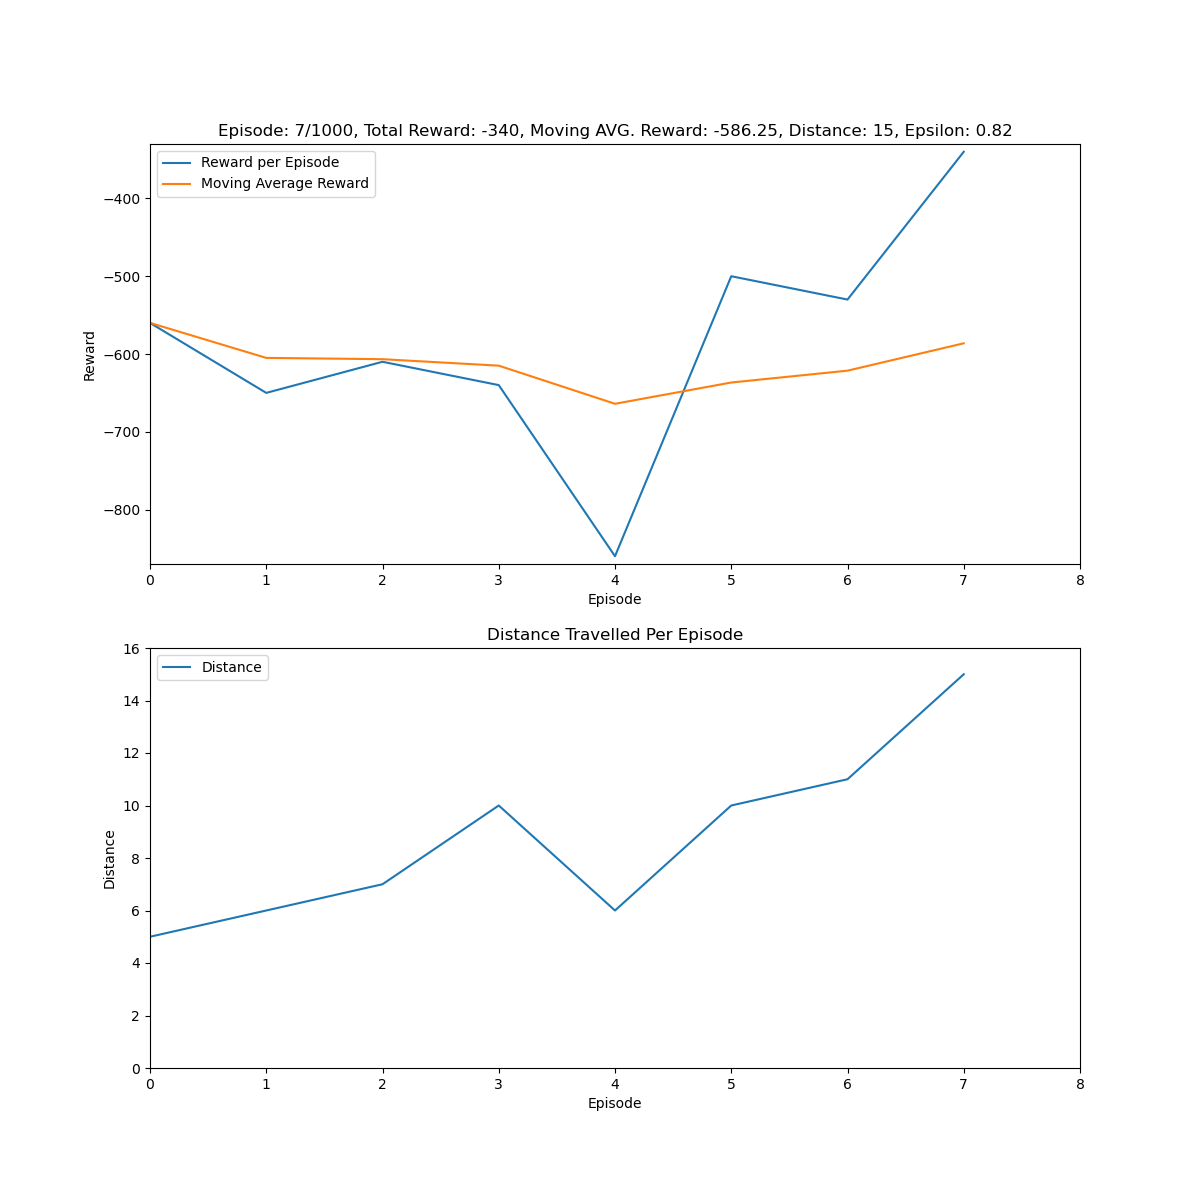
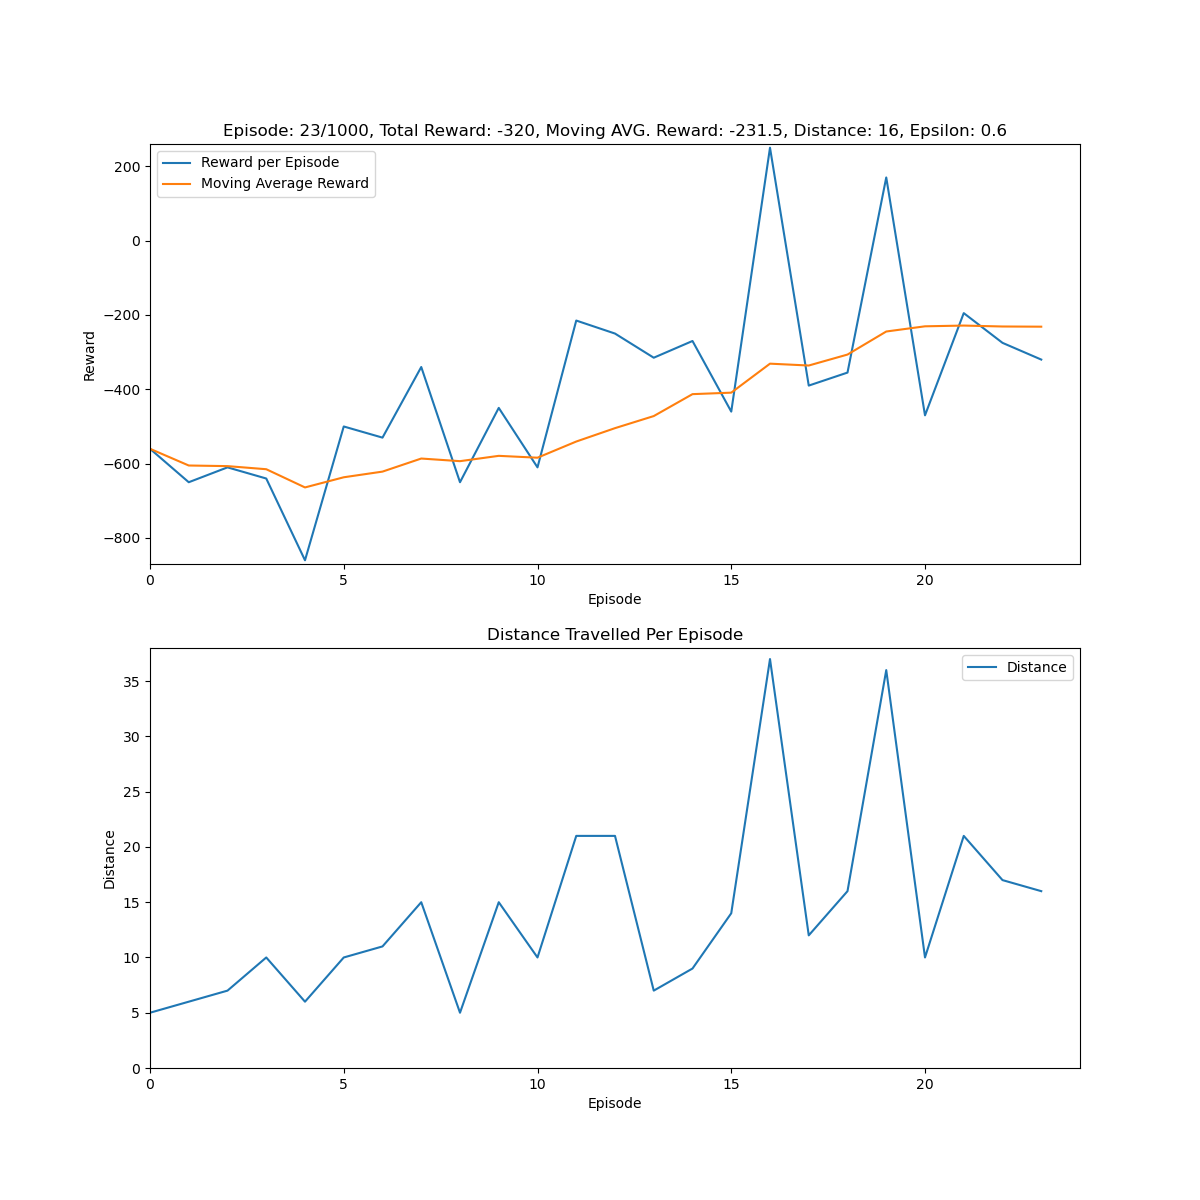
added figures module

diff --git a/freeway/dqn/modules/logger.py b/freeway/dqn/modules/logger.py
@@ -2,23 +2,31 @@ import os
 import json
 
 class EpisodeLogger:
-    def __init__(self, log_file_path="logs/episode_logs.json"):
-        self.log_file_path = log_file_path
-        os.makedirs(os.path.dirname(log_file_path), exist_ok=True)
-        self.logs = []
+    def __init__(self, log_files_dir="logs/"):
+        self.log_file_path = log_files_dir
+        os.makedirs(os.path.dirname(log_files_dir), exist_ok=True)
+        self.rewards = []
+        self.moving_averages = []
+        self.distances = []
+        self.epsilons = []
 
-    def log_episode(self, episode, total_reward, moving_average, epsilon, step_count, average_distance_travelled_per_episode):
-        episode_log = {
-            "episode": episode,
-            "total_reward": total_reward,
-            "moving_average": moving_average,
-            "epsilon": epsilon,
-            "steps": step_count,
-            "avg_distance_travelled_per_episode": average_distance_travelled_per_episode
-        }
-        self.logs.append(episode_log)
+    def log_episode(self, total_reward, moving_average, epsilon, distance):
+        self.rewards.append(total_reward)
+        self.moving_averages.append(moving_average)
+        self.distances.append(distance)
+        self.epsilons.append(epsilon)
+
         self._save_all_logs()
 
     def _save_all_logs(self):
-        with open(self.log_file_path, 'w') as f:
-            json.dump(self.logs, f, indent=4)
+        with open(self.log_file_path + "rewards.txt", 'w') as f:
+            json.dump(self.rewards, f, indent=4)
+
+        with open(self.log_file_path + "moving_avg.txt", 'w') as f:
+            json.dump(self.moving_averages, f, indent=4)
+
+        with open(self.log_file_path + "distances.txt", 'w') as f:
+            json.dump(self.distances, f, indent=4)
+        
+        with open(self.log_file_path + "epsilons.txt", 'w') as f:
+            json.dump(self.epsilons, f, indent=4)

diff --git a/freeway/dqn/modules/figures.py b/freeway/dqn/modules/figures.py
@@ -1,0 +1,22 @@
+import matplotlib.pyplot as plt
+
+def reward_plot(rewards_per_episode, average_rewards):
+    plt.figure(figsize=(12, 6))
+    plt.plot(rewards_per_episode, label='Reward per Episode')
+    plt.plot(average_rewards, label='Moving Average Reward')
+    plt.xlabel('Episode')
+    plt.ylabel('Reward')
+    plt.title('Episode Reward and Moving Average Reward over Time')
+    plt.legend()
+    plt.savefig('figures/rewards_figure.png')
+    plt.show()
+
+def distance_plot(distance_per_episode):
+    plt.figure(figsize=(12, 6))
+    plt.plot(distance_per_episode, label='Distance')
+    plt.xlabel('Episode')
+    plt.ylabel('Distance')
+    plt.title('Distance Travelled Per Episode')
+    plt.legend()
+    plt.savefig('figures/distances_figure.png')
+    plt.show()
